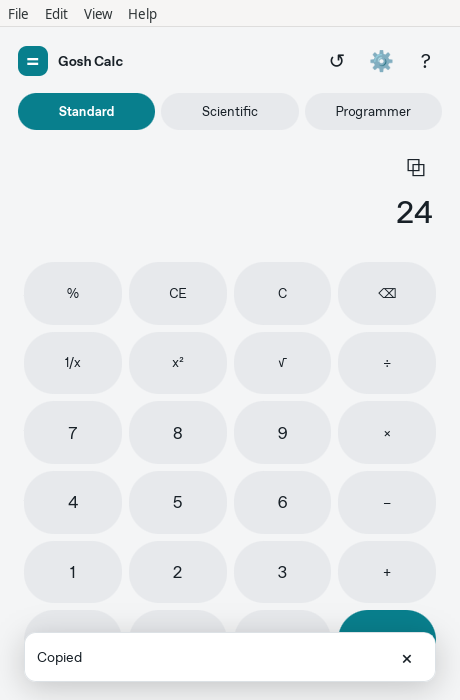
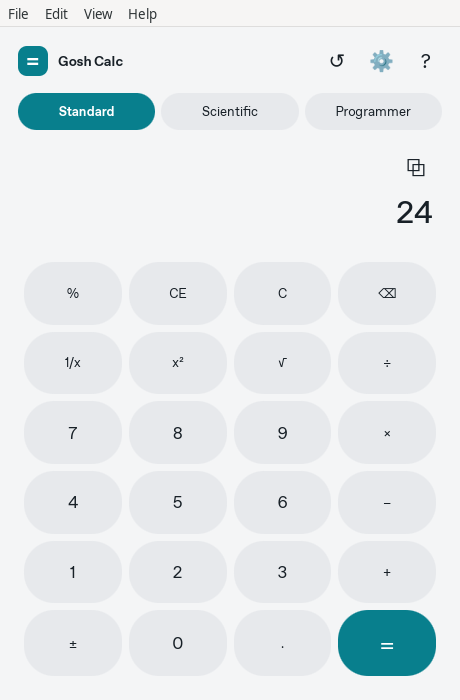
Validate sandboxed Flatpak and final native desktop behavior

Changed region(s): [[0.0913, 0.9, 0.9435, 0.99], [0.3652, 0.9, 0.3957, 0.93]]

diff --git a/resources/style.css b/resources/style.css
@@ -8,11 +8,11 @@ button:focus-visible { outline: 3px solid var(--accent); outline-offset: 2px; }
 button:hover:not(:disabled) { filter: brightness(1.08); }
 button:active:not(:disabled) { transform: translateY(1px); }
 .app {
-  --bg: #f4f5f6; --panel: #fff; --key: #e7e9ec; --text: #182027; --muted: #56636e; --line: #dce1e5; --accent: #087f8d; --accent-text: #fff;
+  --bg: #f4f5f6; --panel: #fff; --key: #e7e9ec; --text: #182027; --muted: #56636e; --line: #dce1e5; --accent: #087f8d; --accent-text: #fff; --error: #b7253b;
   height: 100%; min-width: 320px; padding: 18px; background: var(--bg); color: var(--text); display: flex; flex-direction: column; gap: 16px; outline: none; overflow: hidden;
 }
-.app[data-theme="dark"] { --bg: #171b20; --panel: #21272e; --key: #303943; --text: #edf3f7; --muted: #aebac5; --line: #3d4751; --accent: #62d4df; --accent-text: #10272a; }
-@media (prefers-color-scheme: dark) { .app[data-theme="system"] { --bg: #171b20; --panel: #21272e; --key: #303943; --text: #edf3f7; --muted: #aebac5; --line: #3d4751; --accent: #62d4df; --accent-text: #10272a; } }
+.app[data-theme="dark"] { --bg: #171b20; --panel: #21272e; --key: #303943; --text: #edf3f7; --muted: #aebac5; --line: #3d4751; --accent: #62d4df; --accent-text: #10272a; --error: #ff8997; }
+@media (prefers-color-scheme: dark) { .app[data-theme="system"] { --bg: #171b20; --panel: #21272e; --key: #303943; --text: #edf3f7; --muted: #aebac5; --line: #3d4751; --accent: #62d4df; --accent-text: #10272a; --error: #ff8997; } }
 .app[data-theme="light"] { color-scheme: light; }
 .app[data-theme="dark"] { color-scheme: dark; }
 .toolbar, .brand, .toolbar-actions, .panel-heading, .expression-row { display: flex; align-items: center; gap: 10px; }
@@ -29,7 +29,7 @@ button[aria-pressed="true"] { background: var(--accent) !important; color: var(-
 .expression-row { min-height: 32px; }
 .expression { flex: 1; min-width: 0; white-space: nowrap; overflow: auto; color: var(--muted); font-size: 13px; }
 .result { display: block; font-size: clamp(26px, 7vw, 42px); font-weight: 500; font-variant-numeric: tabular-nums; letter-spacing: -.8px; overflow-x: auto; white-space: nowrap; margin: 5px 0 12px; }
-.error-detail { margin: 0 0 10px; color: #d04b5b; }
+.error-detail { margin: 0 0 10px; color: var(--error); }
 .angle { font-size: 12px !important; color: var(--muted); }
 .base-readout { display: grid; grid-template-columns: repeat(2, minmax(0,1fr)); gap: 6px; }
 .base-readout button { background: var(--key); text-align: left; padding: 8px 10px; min-width: 0; }

diff --git a/src/platform/mod.rs b/src/platform/mod.rs
@@ -11,7 +11,7 @@ use dioxus_desktop::{
 use gosh_calc::{
     commands::Command,
     persistence::{Store, Writer},
-    state::{AppState, Dialog},
+    state::{AppState, Dialog, Theme},
     APP_NAME,
 };
 use std::rc::Rc;
@@ -36,6 +36,9 @@ impl Controller {
     pub fn execute(&self, state: &mut AppState, command: Command) -> bool {
         let previous_mode = state.calc.mode;
         let effect = state.dispatch(command);
+        if matches!(command, Command::SetTheme(_)) {
+            dioxus_desktop::window().set_theme(native_theme(state.theme));
+        }
         if state.calc.mode == gosh_calc::engine::Mode::Scientific
             && previous_mode != state.calc.mode
         {
@@ -74,6 +77,15 @@ pub fn primary_modifier(control: bool, meta: bool) -> bool {
     }
 }
 
+fn native_theme(theme: Theme) -> Option<dioxus_desktop::tao::window::Theme> {
+    use dioxus_desktop::tao::window::Theme as NativeTheme;
+    match theme {
+        Theme::System => None,
+        Theme::Light => Some(NativeTheme::Light),
+        Theme::Dark => Some(NativeTheme::Dark),
+    }
+}
+
 pub fn keyboard(
     key: &str,
     control: bool,
@@ -104,8 +116,11 @@ pub fn configure_webview() {
     {
         use dioxus_desktop::wry::WebViewExtUnix;
         use glib::prelude::*;
+        use webkit2gtk::WebViewExt;
         let view = dioxus_desktop::window().webview.webview();
-        let settings = view.property::<glib::Object>("settings");
+        let Some(settings) = view.settings() else {
+            return;
+        };
         // A calculator needs no media, WebGL or back/forward page cache. Use
         // properties provided by the running system WebKit, preserving its
         // normal sandbox and JavaScript engine.
@@ -213,7 +228,7 @@ fn menus() -> Result<Menu, Box<dyn std::error::Error>> {
         true,
         None,
     ))?;
-    menu.append_items(&[&app, &edit, &view, &help])?;
+    menu.append_items(&[&app, &edit, &view])?;
     #[cfg(target_os = "macos")]
     {
         let window = Submenu::new("Window", true);
@@ -223,6 +238,7 @@ fn menus() -> Result<Menu, Box<dyn std::error::Error>> {
         ])?;
         menu.append(&window)?;
     }
+    menu.append(&help)?;
     Ok(menu)
 }
 
@@ -238,6 +254,7 @@ pub fn desktop_config(
     };
     let builder = WindowBuilder::new()
         .with_title(APP_NAME)
+        .with_theme(native_theme(state.theme))
         .with_inner_size(LogicalSize::new(width, geometry.height))
         .with_min_inner_size(LogicalSize::new(360.0, 480.0))
         .with_maximized(geometry.maximized)

diff --git a/scripts/smoke.py b/scripts/smoke.py
@@ -24,10 +24,15 @@ with tempfile.TemporaryDirectory(prefix="gosh-calc-Δ-") as temporary:
     if args.flatpak:
         # A narrow scratch-directory grant is only used by QA. The production
         # manifest has no filesystem grant and uses its app-scoped XDG storage.
-        command = ["flatpak", "run", f"--filesystem={root}", "--env=GOSH_CALC_UI_TEST=1", f"--env=GOSH_CALC_UI_TEST_RESULT={result_path}", f"--env=GOSH_CALC_CONFIG_DIR={root / 'config'}", "dev.goshapps.calc"]
+        command = ["flatpak", "run", "--user", f"--filesystem={root}", "--env=GOSH_CALC_UI_TEST=1", f"--env=GOSH_CALC_UI_TEST_RESULT={result_path}", f"--env=GOSH_CALC_CONFIG_DIR={root / 'config'}", "dev.goshapps.calc"]
     else:
         command = [str(binary)]
-    run = subprocess.run(command, env=environment, text=True, capture_output=True, timeout=120)
+    try:
+        run = subprocess.run(command, env=environment, text=True, capture_output=True, timeout=120)
+    except subprocess.TimeoutExpired as error:
+        for output in [error.stdout, error.stderr]:
+            if output: print(output.decode(errors="replace") if isinstance(output, bytes) else output)
+        raise SystemExit("Desktop suite timed out before reporting a completed outcome") from error
     print(run.stdout, end="")
     if run.returncode != 0 or not result_path.is_file() or result_path.read_text() != "0":
         print(run.stderr)

diff --git a/src/ui/mod.rs b/src/ui/mod.rs
@@ -34,7 +34,9 @@ pub fn App() -> Element {
         let mut model = model;
         #[cfg(feature = "ui-test")]
         {
-            *test_revision.write() += 1;
+            if !matches!(command, Command::SetWindow(_)) {
+                *test_revision.write() += 1;
+            }
         }
         if controller.execute(&mut model.write(), command) {
             dioxus_desktop::window().close();

diff --git a/PLATFORM_SUPPORT.md b/PLATFORM_SUPPORT.md
@@ -1,23 +1,23 @@
 # Platform support and observed QA
 
-Status as of 2026-10-01 for 0.2.0-alpha.1. **Verified** means executed in this
+Status as of 2026-10-02 for 0.2.0-alpha.1. **Verified** means executed in this
 task; **Prepared** means implemented/configured but not run on that platform.
 Core portability is an architecture property, not proof of a native desktop.
 
-| Capability | Windows x86_64 | macOS arm64 / Intel | Linux x86_64 X11 / Wayland | Flatpak x86_64 / arm64 |
-| --- | --- | --- | --- | --- |
-| Standard/scientific/programmer UI | Prepared | Prepared | Verified | Prepared |
-| Arithmetic, history, invalid-digit availability | Prepared | Prepared | Verified | Prepared |
-| Keyboard and native primary modifier | Prepared: Ctrl | Prepared: Command | Verified: Ctrl | Prepared |
-| Native menus / About / Settings | Prepared | Prepared | Verified | Prepared |
-| Plain text clipboard | Prepared | Prepared | Verified | Prepared |
-| System / Light / Dark preference | Prepared | Prepared | Verified | Prepared |
-| Settings and shutdown persistence | Prepared | Prepared | Verified | Prepared |
-| Legacy RON migration / backup | Not applicable | Not applicable | Verified in tests | Prepared: same app ID/XDG |
-| Responsive sizing / keyboard focus | Prepared | Prepared | Verified | Prepared |
-| Native archive / bundle / installer | MSI + zip prepared | Two .app zips prepared | Archive built and inspected | Manifest prepared; runtime blocked |
-| Hosted CI | Configured, not executed | Configured, not executed | Configured, not executed | Configured, not executed |
-| Wayland / Retina / Windows DPI | Windows DPI unrun | Retina unrun | Verified: nested Wayland, 200% Linux scaling | Unrun |
+| Capability | Windows x86_64 | macOS arm64 / Intel | Linux x86_64 X11 / Wayland | Flatpak x86_64 | Flatpak arm64 |
+| --- | --- | --- | --- | --- | --- |
+| Desktop compilation | Verified: MSVC target check | Verified: both target checks | Verified: debug/release | Verified: GNOME SDK 49 | Prepared |
+| Three modes, math, history, digit availability | Prepared | Prepared | Verified | Verified | Prepared |
+| Keyboard / native primary modifier | Prepared: Ctrl | Prepared: Command | Verified: Ctrl | Verified: Ctrl | Prepared |
+| Native menus / About / Settings | Prepared | Prepared | Verified | Verified | Prepared |
+| Plain text clipboard | Prepared | Prepared | Verified | Verified | Prepared |
+| System / Light / Dark preference | Prepared | Prepared | Verified | Verified | Prepared |
+| Settings and shutdown persistence | Prepared | Prepared | Verified, including reopen | Verified: default path and reopen | Prepared |
+| Legacy RON migration / backup | Not applicable | Not applicable | Verified in tests | Verified: default path and backups | Prepared |
+| Responsive sizing / keyboard focus | Prepared | Prepared | Verified | Verified | Prepared |
+| Native archive / bundle / installer | MSI + zip prepared | Two .app zips prepared | Archive built and inspected | Production built/installed/launched | Prepared |
+| Hosted CI | Billing lock: no steps ran | Billing lock: no steps ran | Billing lock: no steps ran | Billing lock: no steps ran | Billing lock: no steps ran |
+| Wayland / Retina / Windows DPI | Windows DPI unrun | Retina unrun | Nested Wayland and 200% scaling verified | X11 verified | Unrun |
 
 No document/file workflows, drag/drop, file associations, printing, notifications
 or URL actions existed in the old calculator, so none are presented as working
@@ -35,6 +35,12 @@ single-instance enforcement remain explicitly deferred from the baseline.
 - Real WebKit desktop suite passes 70 checks, including scientific control
   traversal (47 controls), numeric error recovery, all three modes, exact i64
   math, cross-base history, theme changes, dialogs, labels and layout.
+- Installed production Flatpak uses only display sockets, IPC and DRI. It passes
+  physical keyboard/clipboard, native menu/settings, default app-scoped RON
+  migration/backups and close/reopen checks without extra filesystem/network
+  grants. Production native and Flatpak binaries contain no UI-test trigger.
+- Native production File/About and File/Quit, all three modes, theme changes and
+  history/mode/theme/geometry restoration after reopen were exercised.
 - Physical X11 shifted keyboard arithmetic `12+3*4` copies `24`; the original
   application produced `384` for that same shifted input.
 - Real Linux light/dark screenshots are in docs/screenshots/. Minimum sizes use
@@ -48,21 +54,32 @@ single-instance enforcement remain explicitly deferred from the baseline.
 
 This cloud task has only Debian Linux. Windows/MSVC, macOS and their installers/
 bundles must run on their native CI runners and then receive manual desktop QA.
-High DPI, screen-reader behavior, OS-driven live system-theme changes, native
-macOS lifecycle behavior and installed-app launch need actual platform access.
+Windows/macOS high DPI, screen-reader behavior, OS-driven live system-theme
+changes and native macOS lifecycle behavior need actual platform access. Linux
+window-manager maximize/minimize and screen-reader QA also remain unrun here.
 
-Initial Flathub and GitHub API requests returned HTTP 403. After the managed
-environment refresh, both destinations became reachable with the supplied
-GitHub authentication. SDK installation and hosted CI execution are in progress;
-no platform artifact or workflow is marked passed until its result is inspected.
+Flathub and the GitHub API became reachable after the managed environment was
+refreshed. The x86_64 Flatpak now builds offline in GNOME SDK 49, exports with
+AppStream/icon validation, installs and passes all 70 real WebView checks.
 
-Execute CI, inspect every matrix job and artifact,
-install both Flatpak architectures, and record manual platform QA here before
-promoting the preview to a stable release. CI configuration alone is not a pass.
+[Hosted CI run 36943503549](https://github.com/goshitsarch-eng/Gosh-Calc/actions/runs/36943503549)
+was triggered and inspected. All seven jobs failed before starting any steps:
+“The job was not started because your account is locked due to a billing issue.”
+Resolve the GitHub billing lock and rerun CI; there are no hosted artifacts to
+inspect from that attempt. The arm64 Mac runner also reported a capacity warning.
 
-## Initial performance measurements
+Windows/MSVC and both macOS targets pass `cargo check --all-targets --all-features`
+from Linux. These checks cover the native UI modules, but do not link, launch,
+exercise installers or establish runtime OS compatibility. Native platform QA,
+Linux arm64, minimum-distribution compatibility and arm64 Flatpak remain
+stable-release gates.
+Mac's transitive `block` 0.1.6 emits a future-incompatibility warning.
 
-Single warm-cache run per build on the same Debian/Xvfb/software-rendering host.
+## Final local performance measurements
+
+Measured on 2026-10-02 after disabling unused WebKit features, with no other
+app or compiler active. Single warm-cache run per build on the same Debian/Xvfb/
+software-rendering host.
 Startup means first correct native keyboard calculation copied to the clipboard,
 including automation polling. Interactions include xdotool/xclip overhead (10
 repeats). PSS accounts for shared pages across the complete app process tree; RSS
@@ -70,11 +87,13 @@ sums double-count shared libraries. These are observations, not general benchmar
 
 | Build | Ready (s) | Process-tree PSS (MiB) | Interaction median / max (ms) |
 | --- | ---: | ---: | ---: |
-| Original debug | 0.400 | 125.6 | 74.7 / 92.6 |
-| Dioxus debug | 0.639 | 226.5 | 74.6 / 81.6 |
-| Dioxus release | 0.559 | 214.9 | 73.1 / 76.4 |
+| Original debug | 0.377 | 156.3 | 74.3 / 108.1 |
+| Dioxus debug | 0.595 | 339.7 | 72.9 / 76.3 |
+| Dioxus release | 0.538 | 326.7 | 70.6 / 75.6 |
 
 The migration currently uses more memory and starts somewhat later than the old
-app in this test. Disabling unused WebKit media/WebGL/page-cache capabilities is
-being evaluated; no performance improvement is claimed without new measurements.
+app in this test. The original uses one app process; Dioxus/WebKit uses three.
+PSS varies with library sharing and the local non-root library view, so it does
+not establish an OS-wide memory budget. Disabling unused WebKit features has
+not established lower process-tree memory use.
 This performance goal is not yet met, even though common interactions are similar.

diff --git a/MIGRATION_AUDIT.md b/MIGRATION_AUDIT.md
@@ -77,7 +77,7 @@ columns in PLATFORM_SUPPORT.md record new-runtime verification separately.
 | Memory M+/MR/MC and single instance | NOT IMPLEMENTED | Explicitly deferred in original; no parity requirement | Not applicable |
 | File operations, drag/drop, printing, notifications | NOT IMPLEMENTED | Calculator has no file-oriented workflow; do not add decorative controls | Not applicable |
 | Windows/macOS installers and native releases | NOT IMPLEMENTED | Required migration packaging and native CI | PREPARED: native CI pending runtime evidence |
-| Flatpak | UNKNOWN runtime evidence, manifest exists | Preserve app ID and minimal permissions; WebKit needs suitable runtime | IN PROGRESS: SDK install and actual sandbox QA |
+| Flatpak | UNKNOWN runtime evidence, manifest exists | Preserve app ID and minimal permissions; WebKit needs suitable runtime | VERIFIED x86_64: offline SDK build, installed sandbox 70 checks; arm64 pending |
 
 ## Defects and decisions
 
@@ -107,8 +107,10 @@ For each inventory row, update migration status after implementation and tests.
 The four platform runtime statuses are tracked independently in PLATFORM_SUPPORT.md.
 Windows/macOS/Flatpak must not be marked VERIFIED by a Linux compile or YAML check.
 The initial network policy blocked the GitHub API and Flathub. Access became
-available after the environment was refreshed; hosted CI and actual Flatpak QA
-are now being executed. Record their outcomes separately from native Linux QA.
+available after the environment was refreshed. Installed x86_64 Flatpak QA
+passes 70 checks. Hosted CI was triggered, but every job was refused before
+execution because the GitHub account has a billing lock. Windows/macOS desktop
+compilation checks pass; this does not validate their installers or native UX.
 
 ## Feature checklist and code removal
 
@@ -117,8 +119,8 @@ reimplemented and covered by core tests and/or real desktop callback checks.
 The 70-check Linux desktop suite verifies all scientific function results,
 programmer operations, digit callbacks, histories, themes and dialogs. Physical
 X11 input and native menus supplement synthetic DOM input. Linux X11, nested
-Wayland and 200% scaling passed; Windows/macOS/Flatpak columns remain evidence
-gates in PLATFORM_SUPPORT.md. Settings, malformed data, CRLF, Unicode paths,
+Wayland, 200% scaling and installed x86_64 Flatpak checks passed; Windows/macOS
+native runtime and aarch64 Flatpak remain evidence gates in PLATFORM_SUPPORT.md. Settings, malformed data, CRLF, Unicode paths,
 backups, unknown schemas and shutdown flushing have regression coverage.
 
 Once Linux parity was exercised, the obsolete COSMIC shell, cosmic-config

diff --git a/BUILDING.md b/BUILDING.md
@@ -5,8 +5,9 @@ Commands run from the checkout root. Dioxus 0.7.10 is used as a Cargo library;
 the Dioxus CLI is optional and is not needed for these builds.
 
 Linux instructions below were exercised on Debian 13 with Rust 1.99.0.
-Windows/macOS/Flatpak instructions and CI jobs are prepared but unexecuted in
-this cloud environment. Their actual status is in PLATFORM_SUPPORT.md.
+Native Linux and the x86_64 Flatpak build/install/UI steps were exercised.
+Windows/macOS desktop targets pass compilation checks, but native linking,
+launch and installer checks require their OS. See PLATFORM_SUPPORT.md.
 
 ## Portable core
 
@@ -127,7 +128,7 @@ executables, but would need both builds and a fresh signature/runtime QA.
 
 ## Flatpak
 
-Install `flatpak flatpak-builder elfutils librsvg2-common` and enable user
+Install `flatpak flatpak-builder elfutils debugedit appstream-compose librsvg2-common` and enable user
 namespaces. This manifest targets GNOME 49 for GTK3/WebKitGTK 4.1:
 
 ```sh
@@ -138,14 +139,14 @@ flatpak install --user -y flathub org.gnome.Platform//49 org.gnome.Sdk//49 \
 python3 flatpak/flatpak-cargo-generator.py Cargo.lock -o flatpak/cargo-sources.json
 python3 scripts/flatpak.py --out dist
 flatpak install --user -y dist/*.flatpak
-flatpak run dev.goshapps.calc
+flatpak run --user dev.goshapps.calc
 ```
 
 Source downloads are checked against Cargo.lock hashes. The build is offline
 and includes the documented GLib safety backport under vendor/. Regenerate the
-source list whenever Cargo.lock changes. The SDK itself and in-sandbox WebKit
-availability have not been verified here because dl.flathub.org is blocked.
-Manifest parsing and source-list consistency checks passed.
+source list whenever Cargo.lock changes. GNOME SDK/Platform 49 with the Rust
+25.08 extension built this application offline on x86_64. The installed sandbox
+passed all 70 desktop checks; aarch64 still needs its native runner.
 
 Test the actual sandbox with a separate QA bundle, never a published binary:
 

diff --git a/README.md b/README.md
@@ -5,8 +5,10 @@ in Rust and Dioxus Desktop. It keeps Gosh Calc's keyboard workflow, pill keys,
 cyan accent and calculation history.
 
 **0.2.0-alpha.1 is a migration preview.** Linux native builds, X11/Wayland desktop
-interaction and 200% scaling have been tested. Windows, macOS, Flatpak and the new hosted CI
-workflows are undergoing runtime validation; see [PLATFORM_SUPPORT.md](PLATFORM_SUPPORT.md).
+interaction, 200% scaling and the installed x86_64 Flatpak have been tested.
+Windows/macOS desktop compilation checks pass; native runtime/installer checks
+remain pending. Hosted CI is blocked by a GitHub billing lock; see
+[PLATFORM_SUPPORT.md](PLATFORM_SUPPORT.md).
 Do not treat this preview as a validated stable release on every platform.
 
 ![Gosh Calc on Linux, light theme](docs/screenshots/linux-light.png)
@@ -54,11 +56,11 @@ Choose `aarch64` for Apple Silicon or `x86_64` for Intel. Local/CI bundles use a
 ad hoc signature; they are not Developer ID signed/notarized unless the release
 operator supplies credentials. See [BUILDING.md](BUILDING.md).
 
-**Linux Flatpak:** the preferred Linux package, once validated:
+**Linux Flatpak:** the preferred Linux package:
 
 ```sh
 flatpak install --user ./gosh-calc-<version>-flatpak-x86_64.flatpak
-flatpak run dev.goshapps.calc
+flatpak run --user dev.goshapps.calc
 ```
 
 This is a local bundle, not a claim of publication in Flathub. It needs GNOME

diff --git a/CHANGELOG.md b/CHANGELOG.md
@@ -13,8 +13,10 @@
   protect malformed, oversized or future-version configuration.
 - Add real desktop automation and Windows/macOS/Linux/Flatpak packaging/CI.
 - Backport an upstream GLib iterator safety fix required by the Linux WebKit host.
-- Linux native QA passes. Other platforms, Flatpak and hosted workflows remain
-  unvalidated here; see PLATFORM_SUPPORT.md. This is not a stable release.
+- Linux native and installed x86_64 Flatpak QA pass. Windows/macOS desktop
+  compilation checks pass; their runtime/installer QA and aarch64 Flatpak remain
+  pending. Hosted jobs are blocked by a GitHub billing lock. See
+  PLATFORM_SUPPORT.md; this remains a preview.
 
 ## 0.1.0 — 2026-09-11
 

diff --git a/docs/RELEASING.md b/docs/RELEASING.md
@@ -2,7 +2,9 @@
 
 Only release.yml publishes GitHub Releases. Branch/PR CI has read permissions.
 Do not tag a migration preview as stable before PLATFORM_SUPPORT.md is verified.
-The current hosted workflows have not been run from this restricted cloud task.
+Hosted CI was triggered, but GitHub refused to start the jobs because the
+account is locked due to a billing issue. Resolve that account blocker before
+expecting platform artifacts or tagging a release; see PLATFORM_SUPPORT.md.
 
 1. Update Cargo.toml and the newest AppStream release to exactly the same version,
    including the prerelease suffix. Update CHANGELOG.md and platform evidence.

diff --git a/SECURITY.md b/SECURITY.md
@@ -21,6 +21,8 @@ RUSTSEC-2026-0097 concerning a custom logger that recursively uses RNG. This
 application neither implements that logger nor uses that rand version for
 application randomness. These are upstream dependency liabilities to revisit
 with future Dioxus/WebView releases, not silently suppressed audit results.
+The macOS host also includes `block` 0.1.6, which emits a Rust future-
+incompatibility warning; both macOS compilation checks currently pass.
 
 Dioxus 0.7.10 references Wry inspector methods even with its development tools
 feature disabled. A narrow direct Wry feature enables compilation; production
